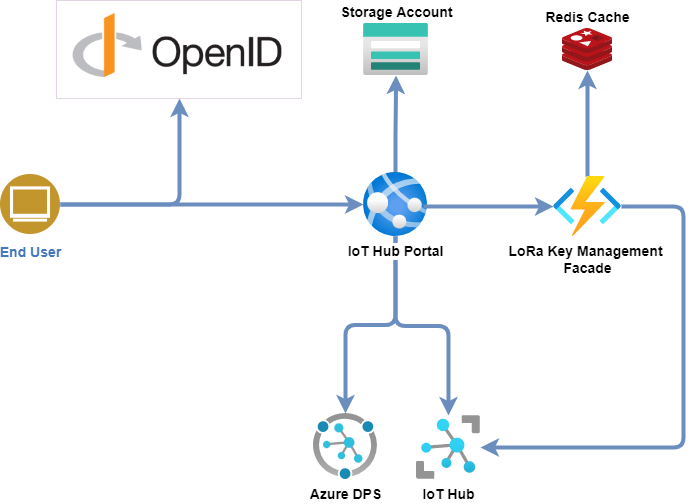
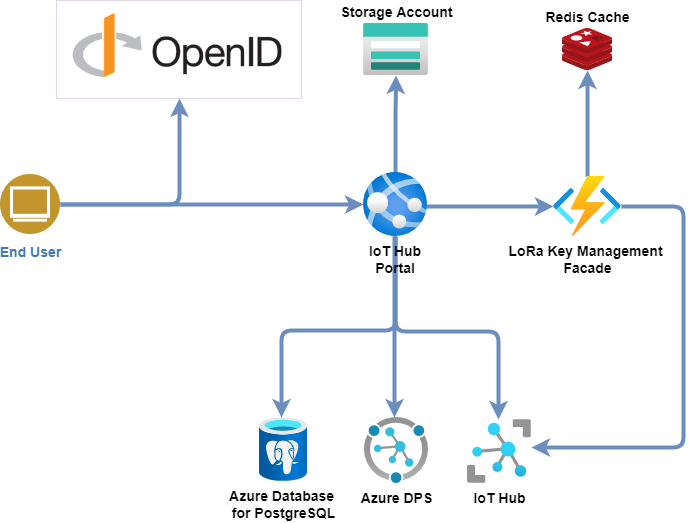
Add database support in docs

diff --git a/docs/dev-guide.md b/docs/dev-guide.md
@@ -26,6 +26,7 @@ This schema represent the various components and how they interact to have a bet
 1. The IoT Hub portal uses the LoRa Key Management Facade to send Cloud to Device (C2D) messages to LoRa devices.
 1. The LoRa Key Management Facade uses Redis to store its cached data.
 1. The LoRa Key Management Facade uses the Azure IoT Hub REST API to retrieve the LoRa device keys and send C2D messages.
+1. The IoT Hub portal synchronizes its data with the IoT Hub to provide a consistent view of the data.
 
 > Note: For more information about the LoRa Key Management Facade, see the [Azure IoT Edge LoRaWAN Starter Kit](https://azure.github.io/iotedge-lorawan-starterkit) page.
 

diff --git a/docs/index.md b/docs/index.md
@@ -33,6 +33,7 @@ The template will deploy in your Azure subscription the Following resources:
 * Application Insights
 * Log Analytics (when opted in to use Azure Monitor)
 * Azure WebApp and Service Plan
+* Azure Database for PostgreSQL
 
 ### Instructions
 
